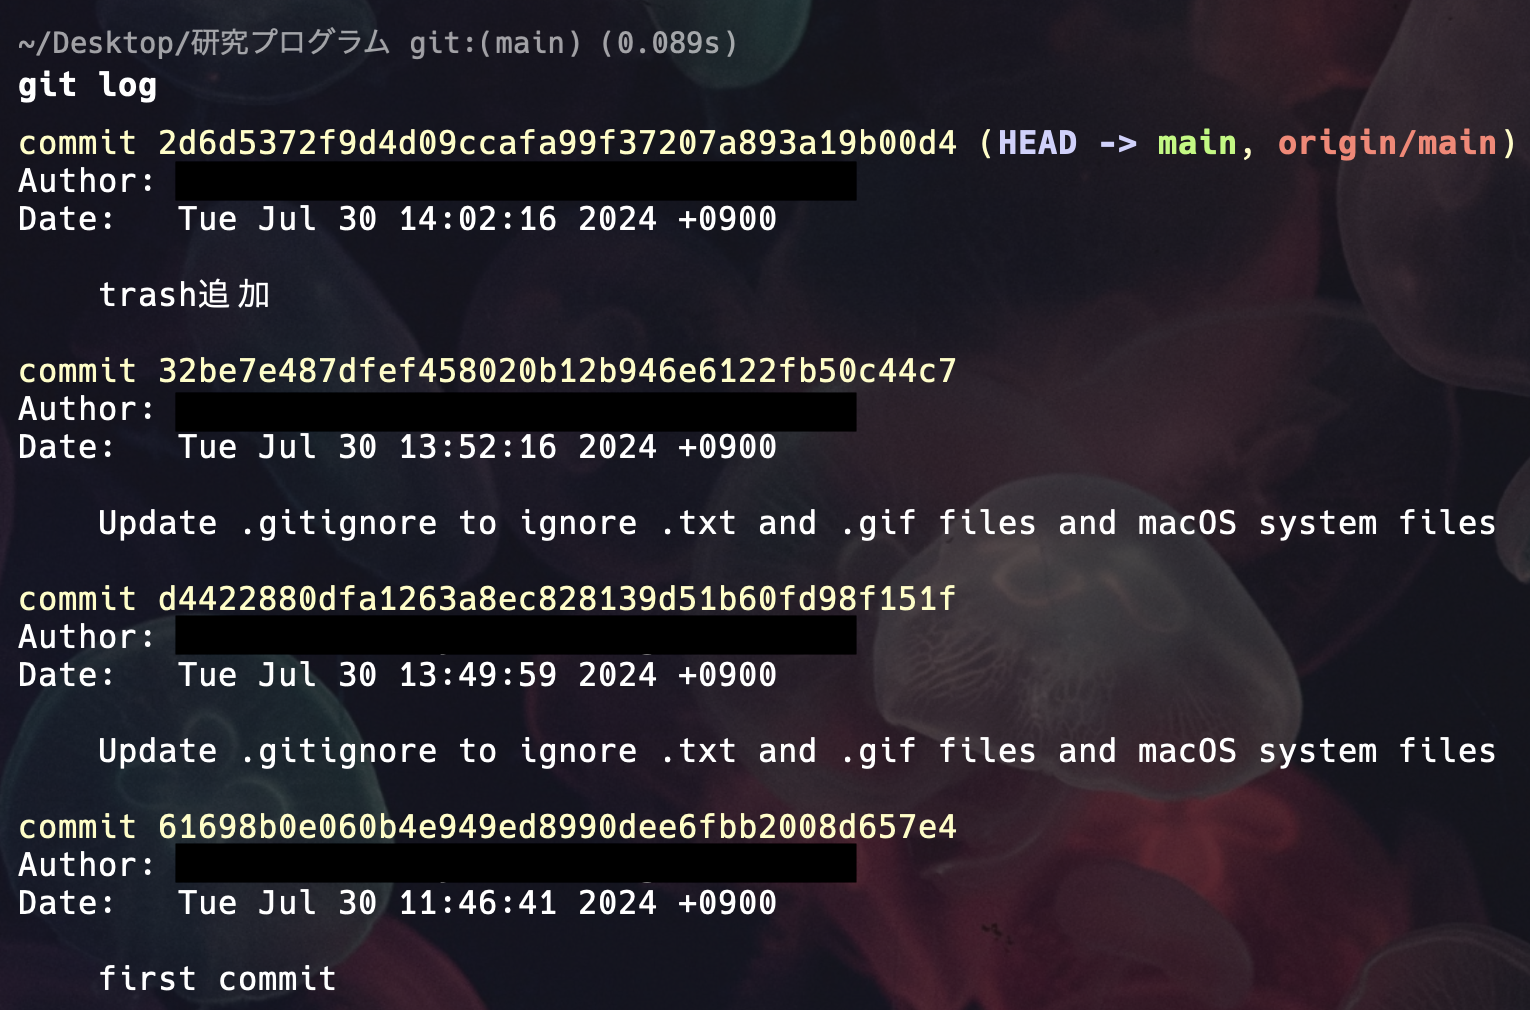
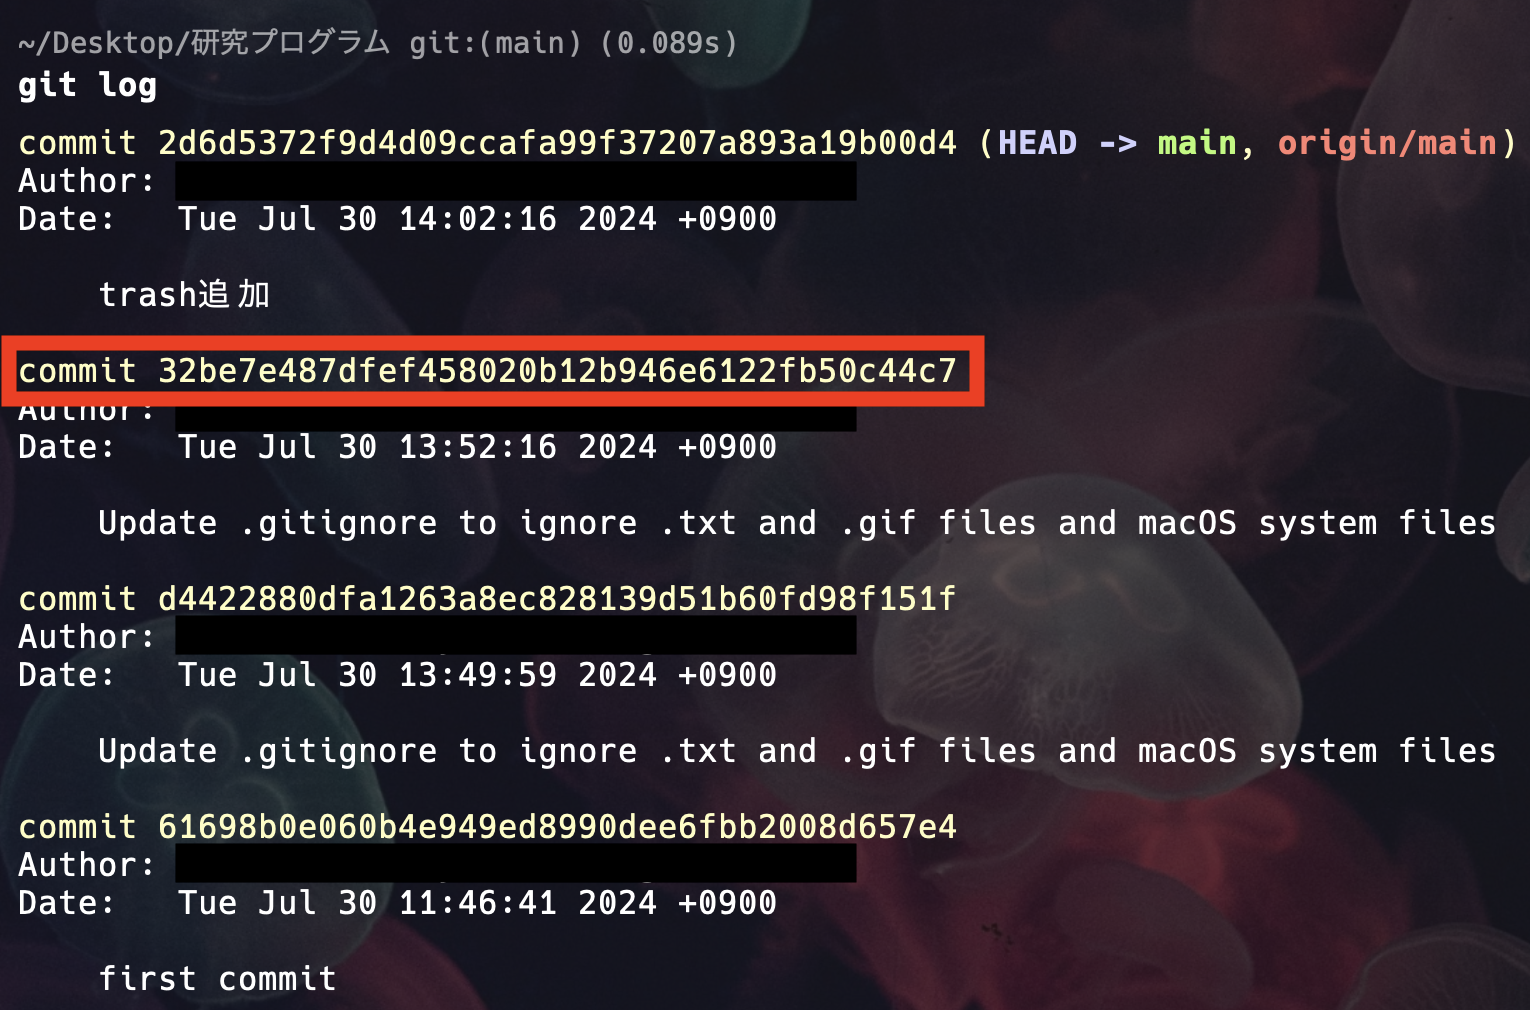
24個目追加

Changed region(s): [[0.0, 0.3069, 0.6451, 0.4297]]

diff --git a/articles/sankaku0724-newcreate24.md b/articles/sankaku0724-newcreate24.md
@@ -13,11 +13,11 @@ published: false
 
 ## はじめに
 
-私は現在大学4年生で、卒業論文の執筆にあたり、C言語を用いたプログラムをGithubで効率的に管理することにしました。
+私は現在大学4年生で、卒業論文の執筆にあたり、C言語を用いたプログラムをGithubで管理することにしました。
 
-本記事は、具体的な手順とその過程で得た知見をまとめたものです。
+この記事は、具体的な手順とその過程で得た知見をまとめたものです。
 
-この記事が、同じく卒業研究や学術プロジェクトに取り組む学生や研究者の方々にとって、有益な情報源となれば幸いです。
+同じく卒業研究や学術プロジェクトに取り組む学生や研究者の方々にとって、有益な情報源となれば幸いです。
 
 ### 私の動作環境
 
@@ -25,34 +25,34 @@ MacOS Sonoma 14.5
 
 ## Githubとは？
 
-[**GitHub**](https://github.co.jp/)は、プログラムのソースコードをオンラインで共有・管理するためのサービスです。これは、ソースコードのバージョン管理システムであるGitを基にしたものになっています。
+[**GitHub**](https://github.co.jp/)は、プログラムのソースコードをオンラインで共有・管理するためのサービスであり、手元のファイルやディレクトリをGithubにプッシュすることで保存することができます。また、これは、ソースコードのバージョン管理システムであるGitを基にしたものになっています。
 
 ## Githubで管理する
 
 ### 1. Githubアカウントを作成する
 
-以下のリンクからGithubの公式サイトに飛ぶことができます．
-Githubアカウントを所持していない場合は，ここからサインアップしてアカウントを作成しましょう。
+以下のリンクからGithubの公式サイトに飛ぶことができます。
+Githubアカウントを所持していない場合は、ここからサインアップしてアカウントを作成しましょう。
 既にアカウントを持っている場合は、ログインしましょう。
 
 https://github.com/
 
 ### 2. GitHubリポジトリを作成する
 
-アカウントが作成できたら，ログインし、GitHubリポジトリを作成しましょう．
-GitHubリポジトリとは、**ファイルやディレクトリの保存・管理場所**のことです．
+アカウントが作成できたら、ログインし、GitHubリポジトリを作成しましょう。
+GitHubリポジトリとは、**ファイルやディレクトリの保存・管理場所**のことです。
 
 画面右上のプラスアイコン（+）をクリックし、`New repository`を選択します。
 
 ![](/images/sankaku24/1.png)
 *画面右上*
 
-プラスアイコンを押すと，リポジトリの設定画面に遷移します．
-まずは，リポジトリ名を決めましょう．私は「`graduation-thesis-program`」と名付けました．
+プラスアイコンを押すと、リポジトリの設定画面に遷移します。
+まずは、リポジトリ名を決めましょう。私は「`graduation-thesis-program`」と名付けました。
 
 :::details リポジトリ名は日本語でつけちゃダメ！
 [一般的にリポジトリ名は日本語の使用が推奨されていません。](https://webooker.info/2015/06/git-repository-name-rule/)
-試しに，リポジトリ名を「卒論プログラム」にしてみると，ハイフンに置換されてしまいました．
+試しに、リポジトリ名を「卒論プログラム」にしてみると、ハイフンに置換されてしまいました。
 
 ![](/images/sankaku24/3.png)
 *「卒論プログラム」と名付けてみる*
@@ -61,40 +61,40 @@ GitHubリポジトリとは、**ファイルやディレクトリの保存・管
 *ハイフンに置換されてしまった*
 :::
 
-また，**GitHubのリポジトリは、「Public（公開）」と「Private（非公開）」のどちらかを設定する必要があります。**
-Publicにすると，誰でもアクセスできるようになり、コードを閲覧したり、フォークしたりすることが可能です。
-Privateリポジトリにすると，指定されたアカウントのみがアクセスできるようになり、コードの閲覧や変更を制限することができます。
+また、**GitHubのリポジトリは、「Public（公開）」と「Private（非公開）」のどちらかを設定する必要があります。**
+Publicにすると、誰でもアクセスできるようになり、コードを閲覧したり、フォークしたりすることが可能です。
+Privateリポジトリにすると、指定されたアカウントのみがアクセスできるようになり、コードの閲覧や変更を制限することができます。
 
-この設定は後から変更することも可能なので，とりあえず私はPrivateにしました．
+この設定は後から変更することも可能なので、とりあえず私はPrivateにしました。
 
 ![](/images/sankaku24/2.png)
 *私の設定画面*
 
-他の部分は特に触らなくても大丈夫です．準備が整ったら，`Create repository`を選択しましょう。
+他の部分は特に触らなくても大丈夫です。準備が整ったら、`Create repository`を選択しましょう。
 
 ![](/images/sankaku24/5.png)
 *`Create repository`を選択*
 
-ここまでの手順を行うことで，GitHubリポジトリを作成することができます．
+ここまでの手順を行うことで、GitHubリポジトリを作成することができます。
 
 ![](/images/sankaku24/6.png)
 *GitHubリポジトリの作成成功*
 
 ### 3. Gitにアップロードしたいプログラムがあるディレクトリに移動する
 
-ローカルで管理したいプロジェクトフォルダを作成し、コマンドラインでそのフォルダに移動しましょう．
+ローカルで管理したいプロジェクトフォルダを作成し、コマンドラインでそのフォルダに移動しましょう。
 
 ### 4. `.gitignore`ファイルを作成する
 
-移動したら，以下のコマンドで`.gitignore`ファイルを作成しましょう．
-`.gitignore`ファイルは、Gitで管理したくないファイルやディレクトリを指定するための設定ファイルです．
+移動したら、以下のコマンドで`.gitignore`ファイルを作成しましょう。
+`.gitignore`ファイルは、Gitで管理したくないファイルやディレクトリを指定するための設定ファイルです。
 
 ```
 touch .gitignore
 ```
 
-私は以下のように記述し，オブジェクトファイルなどをGitに追跡させないようにしました．
-ここは，皆さんの環境に合った適切なものを記述しましょう．
+私は以下のように記述し、オブジェクトファイルなどをGitに追跡させないようにしました。
+ここは、皆さんの環境に合った適切なものを記述しましょう。
 
 ```.gitignore:私の.gitignore
 # Ignore object files
@@ -112,8 +112,8 @@ touch .gitignore
 
 :::details .gitignoreファイルを更新したい時
 
-.gitignoreファイルを編集した際は，必ず以下のコマンドでキャッシュを削除しましょう．
-これにより，.gitignoreの変更が反映されるようになります．
+.gitignoreファイルを編集した際は、必ず以下のコマンドでキャッシュを削除しましょう。
+これにより、.gitignoreの変更が反映されるようになります。
 
 ```
 git rm -r --cached .gitignore
@@ -135,7 +135,7 @@ git init
 
 ### 5. GitHubリポジトリとローカルリポジトリをリンク
 
-Gitリポジトリを初期化したら，リポジトリ作成時にGitHubから提供されたURLを使用してローカルリポジトリとリンクさせましょう．
+Gitリポジトリを初期化したら、リポジトリ作成時にGitHubから提供されたURLを使用してローカルリポジトリとリンクさせましょう。
 
 ```
 git remote add origin <GitHubリポジトリのURL>
@@ -150,15 +150,8 @@ git remote add origin https://github.com/sankaku0724/graduation-thesis-program.g
 
 ### 6. 初回コミットとプッシュ
 
-リンクが完了したら，プロジェクトファイルを追加します
-
-
-
-
-
-
-
-
+リンクが完了したら、プロジェクトファイルを追加しましょう。
+以下のコマンドで最初のコミットを作成し、リモートリポジトリにプッシュできます。
 
 ```
 git add .
@@ -167,49 +160,107 @@ git branch -M main
 git push -u origin main
 ```
 
+- `git add .`
+現在のディレクトリ（.）内のすべての新規および変更されたファイルをGitのステージングエリアに追加します。
+これにより、次のコミットに含めるファイルを指定します。
+
+- `git commit -m "first commit"`
+ステージングエリアにあるファイルをコミットします。
+`-m`オプションを使用してコミットメッセージ（"first commit"）を指定しています。
+
+- `git branch -M main`
+現在のブランチの名前をmainに変更します。
+`-M`オプションは、既存のブランチがある場合でも強制的に名前を変更します。
+
+- `git push -u origin main`
+ローカルのmainブランチをoriginリモートのmainブランチにプッシュします。
+`-u`オプションは、ローカルのmainブランチとリモートのmainブランチの間に追跡関係を設定します。
+
+これで、**Githubで管理できるようになりました！**
+
+![](/images/sankaku24/7.png)
+*プッシュできている*
+
+### 7.変更を加える際の追加方法
+
+今後、プログラムを変更するなどして、Githubに追加し直したい場合があるでしょう。
+
+そのような場合は、[`git status`](https://git-scm.com/docs/git-status)コマンドで変更箇所を確認した後、以下のコマンドのようにして追加しましょう。
+
+```
+git add ＜追加したいもの＞
+git commit -m "＜わかりやすいメッセージ＞"
+git push origin main
+```
+
+- `git add ＜追加したいもの＞`
+指定したファイルを追加することができます。
+これにより、次のコミットに含めるファイルを指定します。
+
+- `git commit -m "＜わかりやすいメッセージ＞"`
+ステージングエリアにあるファイルをコミットします。
+-mオプションを使用してコミットメッセージを直接指定します。ここでは、＜わかりやすいメッセージ＞の部分に具体的な変更内容を記述します。
+
+- `git push origin main`
+ローカルのmainブランチの内容をリモートリポジトリoriginのmainブランチにプッシュします。
+これにより、ローカルの変更がリモートリポジトリに反映されます。
+
+**`追加したいもの`や`わかりやすいメッセージ`の部分は各自で適宜変更してください。**
+もちろん、私が紹介している追加方法以外にもやり方はあるので、ぜひいろいろ調べてみてください。
 
 ## Githubで過去のバージョンに戻す
 
-GitHubは、変更履歴を詳細に記録することで、過去のバージョンに戻すことや、変更点のレビューが容易になります。
+GitHubは、変更履歴を詳細に記録することで、過去のバージョンに戻すことができます。
 
-git reset --hard コマンドを使用して、リポジトリを指定したコミットにリセットします。
+試しに「trash.c」を追加し、プッシュした後で、追加する前のバージョンに戻してみます。
+
+![](/images/sankaku24/8.png)
+*「trash.c」を追加*
+
+![](/images/sankaku24/10.png)
+*「trash.c」をプッシュ*
+
+追加したら`git status`で確認します。
+
+![](/images/sankaku24/9.png)
+*「trash.c」がまだGitに追跡されていない*
+
+ここで、`git log`コマンドというものがあります。
+これを用いると、Gitリポジトリのコミット履歴が表示されます。
 ```
-git reset --hard 32be7e487dfef458020b12b946e6122fb50c44cm
+git log
 ```
 
-リモートリポジトリにもその変更を反映させるために、--force オプションを使用して強制的にプッシュします。
+![](/images/sankaku24/11.png)
+*過去のコミットメッセージ、コミットID、著者、日付などの情報が表示される*
+
+ここで、「trash.c」を追加する一つ前のバージョンに戻すために`git reset --hard`コマンドを使用して、リポジトリを指定したコミットにリセットしてみます。
+
+```
+git reset --hard 32be7e487dfef458020b12b946e6122fb50c44c7
+```
+
+![](/images/sankaku24/12.png)
+
+ここで、リモートリポジトリにもその変更を反映させるために、`--force`オプションを使用して強制的にプッシュします。
+
 ```
 git push origin main --force
 ```
 
-
-![](/images/sankaku24/7.png)
-
-![](/images/sankaku24/8.png)
-
-![](/images/sankaku24/9.png)
-
-![](/images/sankaku24/10.png)
-
-![](/images/sankaku24/11.png)
-
-![](/images/sankaku24/12.png)
-
 ![](/images/sankaku24/13.png)
+*強制的にプッシュ*
+
+ディレクトリを確認すると、「trash.c」が消えており、前のバージョンに戻せたことが確認できました。
 
 ![](/images/sankaku24/14.png)
-
-
-
-
-
 
 ## さいごに
 
 ここまで記事を読んでくださり、ありがとうございました！
 
-今回の記事で紹介したGithubの使い方は，本当に最低限のものです．
-他にも様々な機能やコマンドがあるので，自分に必要なものをその都度調べていくことが大事になってきます．
-私もまだまだ慣れていないため，今後も実際にGithubを使いながら学んでいきたいです．
+今回の記事で紹介した手順だけが正解ではありません。
+他にも様々な機能やコマンドがあるので、自分に必要なものをその都度調べていくことが大事になってきます。
+私もまだまだ慣れていないため、今後も実際にGithubを使いながら学んでいきたいです。
 
 **皆さんも素敵なハッピーGithubライフを！！！🌸**
